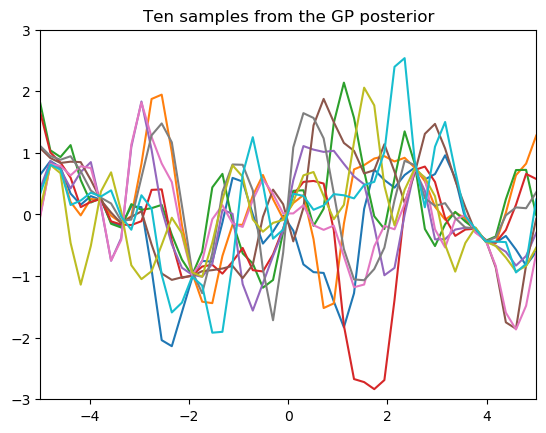
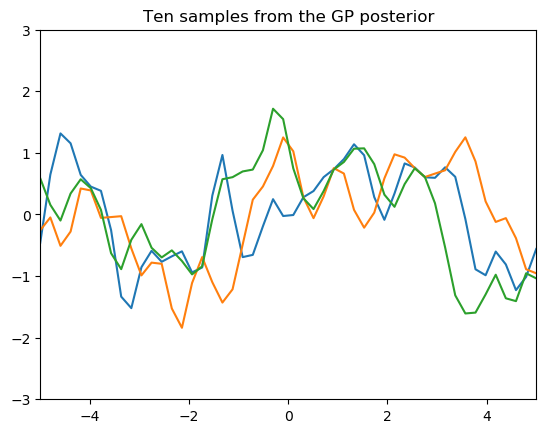
update HW05/Gaussian Process  kernel function & optimize.minimize

diff --git a/HW05/Gaussian Process/util.py b/HW05/Gaussian Process/util.py
@@ -16,42 +16,29 @@ def load_data(path='input.data'):
 def kernel(X1,X2,alpha=1,length_scale=1):
     '''
     using rational quadratic kernel function: k(x_i, x_j) = (1 + (x_i-x_j)^2 / (2*alpha * length_scale^2))^-alpha
-    :param X1: (m,d) ndarray
-    :param X2: (n,d) ndarray
-    return: (m,n) kernel ndarray
+    :param X1: (n) ndarray
+    :param X2: (m) ndarray
+    return: (n,m)  ndarray
     '''
-    sqdist = np.sum(X1 ** 2, 1).reshape(-1, 1) + np.sum(X2 ** 2, 1) - 2 * np.dot(X1, X2.T)
-    kernel = (1+sqdist**2/(2*alpha*length_scale**2))**-alpha
+    square_error=np.power(X1.reshape(-1,1)-X2.reshape(1,-1),2.0)
+    kernel=np.power(1+square_error/(2*alpha*length_scale**2),-alpha)
 
     return kernel
 
+def predict(x_line,X,y,K,beta,alpha=1,length_scale=1):
+    '''
+    vectorize calculate k_x_xstar !!
+    :param x_line: sampling in linspace(-60,60)
+    :param X:  (n) ndarray
+    :param y: (n) ndarray
+    :param K: (n,n) ndarray
+    :param beta:
+    :return: (len(x_line),1) ndarray, (len(x_line),len(x_line)) ndarray
+    '''
+    k_x_xstar=kernel(X,x_line,alpha=1,length_scale=1)
+    k_xstar_xstar=kernel(x_line,x_line,alpha=1,length_scale=1)
+    means=k_x_xstar.T @ np.linalg.inv(K) @ y.reshape(-1,1)
+    vars=k_xstar_xstar+(1/beta)*np.identity(len(k_xstar_xstar))-k_x_xstar.T @ np.linalg.inv(K) @ k_x_xstar
 
-def get_mus(x_line,x,y,kernel):
-    '''
-    :param x_line: sampling by linspace(-60,60)
-    :param x: datapoints x
-    :param y: datapoints y
-    :param kernel: (n,n) matrix
-    return: (len(x_line)) array
-    '''
-    n=len(x_line)
-    means=np.zeros(n)
-    for i in range(n):
-        k_x_xstar=kernel_function(x_line[i],x)
-        means[i]=k_x_xstar @ np.linalg.inv(kernel) @ y.reshape(-1,1)
-    return means
+    return means,vars
 
-def get_vars(x_line,x,kernel,beta):
-    '''
-    :param x_line: sampling by linspace(-60,60)
-    :param x: datapoints x
-    :param kernel: (n,n) matrix
-    :param beta: noise scalar
-    :return: (len(x_line)) array
-    '''
-    n=len(x_line)
-    variances=np.zeros(n)
-    for i in range(n):
-        k_x_xstar=kernel_function(x_line[i],x)
-        variances[i]=(kernel_function(x_line[i],x_line[i]) + 1/beta) + k_x_xstar @ np.linalg.inv(kernel) @ k_x_xstar.T
-    return variances

diff --git a/HW05/Gaussian Process/main2.py b/HW05/Gaussian Process/main2.py
@@ -1,0 +1,48 @@
+import numpy as np
+import matplotlib.pyplot as plt
+from scipy.optimize import minimize
+from util import *
+
+def objective_function(X,y,beta):
+    '''
+    :param X:  (n) ndarray
+    :param y:  (n) ndarray
+    :param beta:
+    :return:
+    '''
+    def objective(theta):
+        K=kernel(X,X,alpha=theta[0],length_scale=theta[1])+(1/beta)*np.identity(len(X))
+        L=np.linalg.cholesky(K)
+        return 0.5*y.reshape(1,-1) @ np.linalg.inv(K) @ y.reshape(-1,1) + np.sum(np.log(np.diag(L))) + 0.5*len(X)*np.log(2*np.pi)
+
+    return objective
+
+X,y=load_data()
+beta=5
+
+objective_value=1e9
+inits=[1e-2,1e-1,0,1e1,1e2]
+for init_alpha in inits:
+    for init_length_scale in inits:
+        res=minimize(objective_function(X,y,beta),x0=[init_alpha,init_length_scale],bounds=((1e-5,1e5),(1e-5,1e5)))
+        if res.fun<objective_value:
+            objective_value = res.fun
+            alpha_optimize,length_scale_optimize=res.x
+print('alpha: ',alpha_optimize)
+print('length_scale: ',length_scale_optimize)
+
+#kernel
+K=kernel(X,X,alpha=alpha_optimize,length_scale=length_scale_optimize)+1/beta*np.identity(len(X))
+
+# mean and variance in range[-60,60]
+x_line=np.linspace(-60,60,num=500)
+mean_predict,variance_predict=predict(x_line,X,y,K,beta,alpha=alpha_optimize,length_scale=length_scale_optimize)
+mean_predict=mean_predict.reshape(-1)
+variance_predict=np.sqrt(np.abs(np.diag(variance_predict)))
+
+#plot
+plt.plot(X,y,'bo')
+plt.plot(x_line,mean_predict,'k-')
+plt.fill_between(x_line,mean_predict+2*variance_predict,mean_predict-2*variance_predict,facecolor='salmon')
+plt.xlim(-60,60)
+plt.show()

diff --git a/HW05/Gaussian Process/prior_posterior_sample.py b/HW05/Gaussian Process/prior_posterior_sample.py
@@ -47,15 +47,15 @@ pl.figure(1)
 pl.clf()
 pl.plot(X, y, 'r+', ms=20)
 pl.plot(Xtest, f(Xtest), 'b-')
-pl.gca().fill_between(Xtest.flat, mu-3*s, mu+3*s, color="#dddddd")
+pl.gca().fill_between(Xtest.flat, mu-2*s, mu+2*s, color="#dddddd")
 pl.plot(Xtest, mu, 'r--', lw=2)
 pl.savefig('predictive.png', bbox_inches='tight')
-pl.title('Mean predictions plus 3 st.deviations')
+pl.title('Mean predictions plus 2 st.deviations')
 pl.axis([-5, 5, -3, 3])
 
 # draw samples from the prior at our test points.
 L = np.linalg.cholesky(K_ + 1e-6*np.eye(n))
-f_prior = np.dot(L, np.random.normal(size=(n,10)))
+f_prior = np.dot(L, np.random.normal(size=(n,3)))
 pl.figure(2)
 pl.clf()
 pl.plot(Xtest, f_prior)
@@ -65,7 +65,7 @@ pl.savefig('prior.png', bbox_inches='tight')
 
 # draw samples from the posterior at our test points.
 L = np.linalg.cholesky(K_ + 1e-6*np.eye(n) - np.dot(Lk.T, Lk))
-f_post = mu.reshape(-1,1) + np.dot(L, np.random.normal(size=(n,10)))
+f_post = mu.reshape(-1,1) + np.dot(L, np.random.normal(size=(n,3)))
 pl.figure(3)
 pl.clf()
 pl.plot(Xtest, f_post)

diff --git a/HW05/Gaussian Process/main.py b/HW05/Gaussian Process/main.py
@@ -3,19 +3,20 @@ import matplotlib.pyplot as plt
 from util import *
 
 
-x,y=load_data()
+X,y=load_data()
 beta=5
 
 #kernel
-K=kernel(x,x)+1/beta*np.identity(len(x))
+K=kernel(X,X,alpha=1,length_scale=1)+1/beta*np.identity(len(X))
 
 # mean and variance in range[-60,60]
 x_line=np.linspace(-60,60,num=500)
-mean_predict=get_mus(x_line,x,y,K)
-variance_predict=get_vars(x_line,x,K,beta)
+mean_predict,variance_predict=predict(x_line,X,y,K,beta,alpha=1,length_scale=1)
+mean_predict=mean_predict.reshape(-1)
+variance_predict=np.sqrt(np.diag(variance_predict))
 
 #plot
-plt.plot(x,y,'bo')
+plt.plot(X,y,'bo')
 plt.plot(x_line,mean_predict,'k-')
 plt.fill_between(x_line,mean_predict+2*variance_predict,mean_predict-2*variance_predict,facecolor='salmon')
 plt.xlim(-60,60)

diff --git a/HW05/Gaussian Process/test2.py b/HW05/Gaussian Process/test2.py
@@ -1,0 +1,7 @@
+import numpy as np
+
+a=np.random.randn(3,1)
+b=np.asarray([1,2])
+print(a)
+print(b)
+print(a-b)
